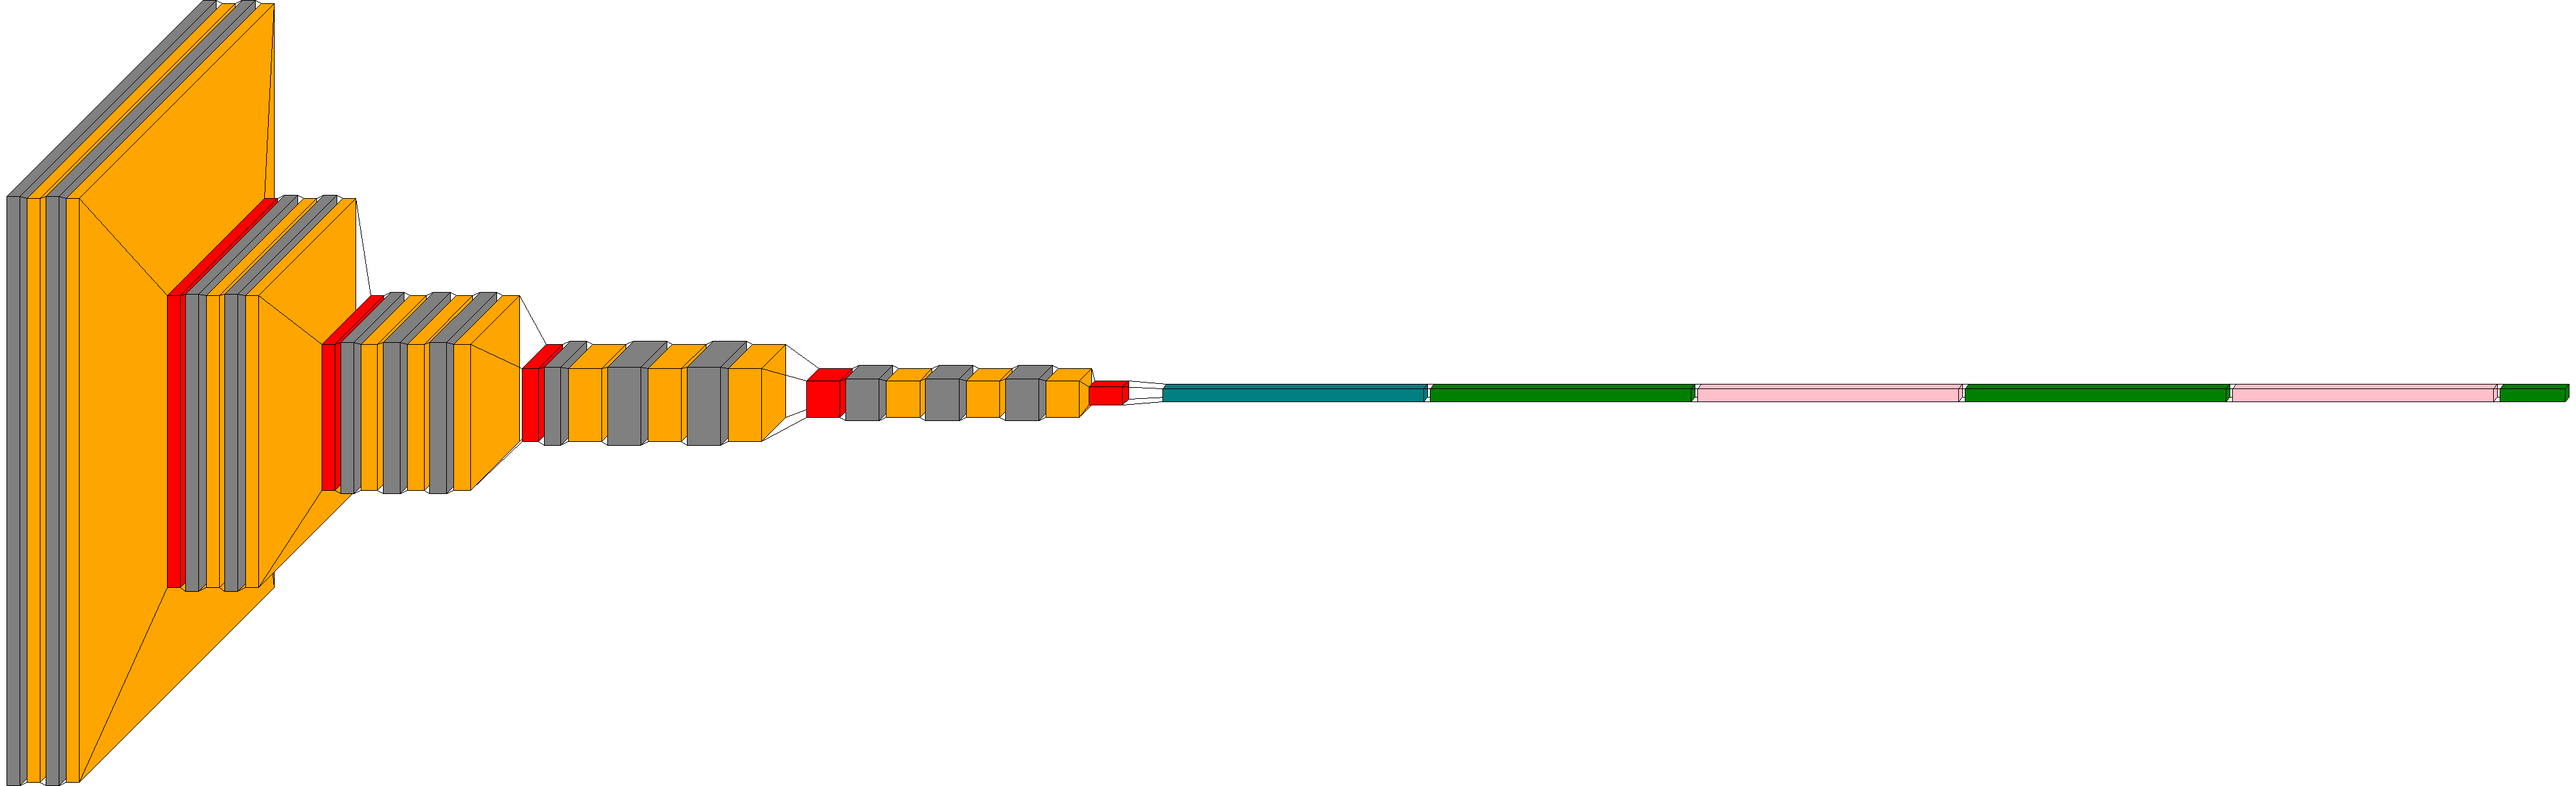
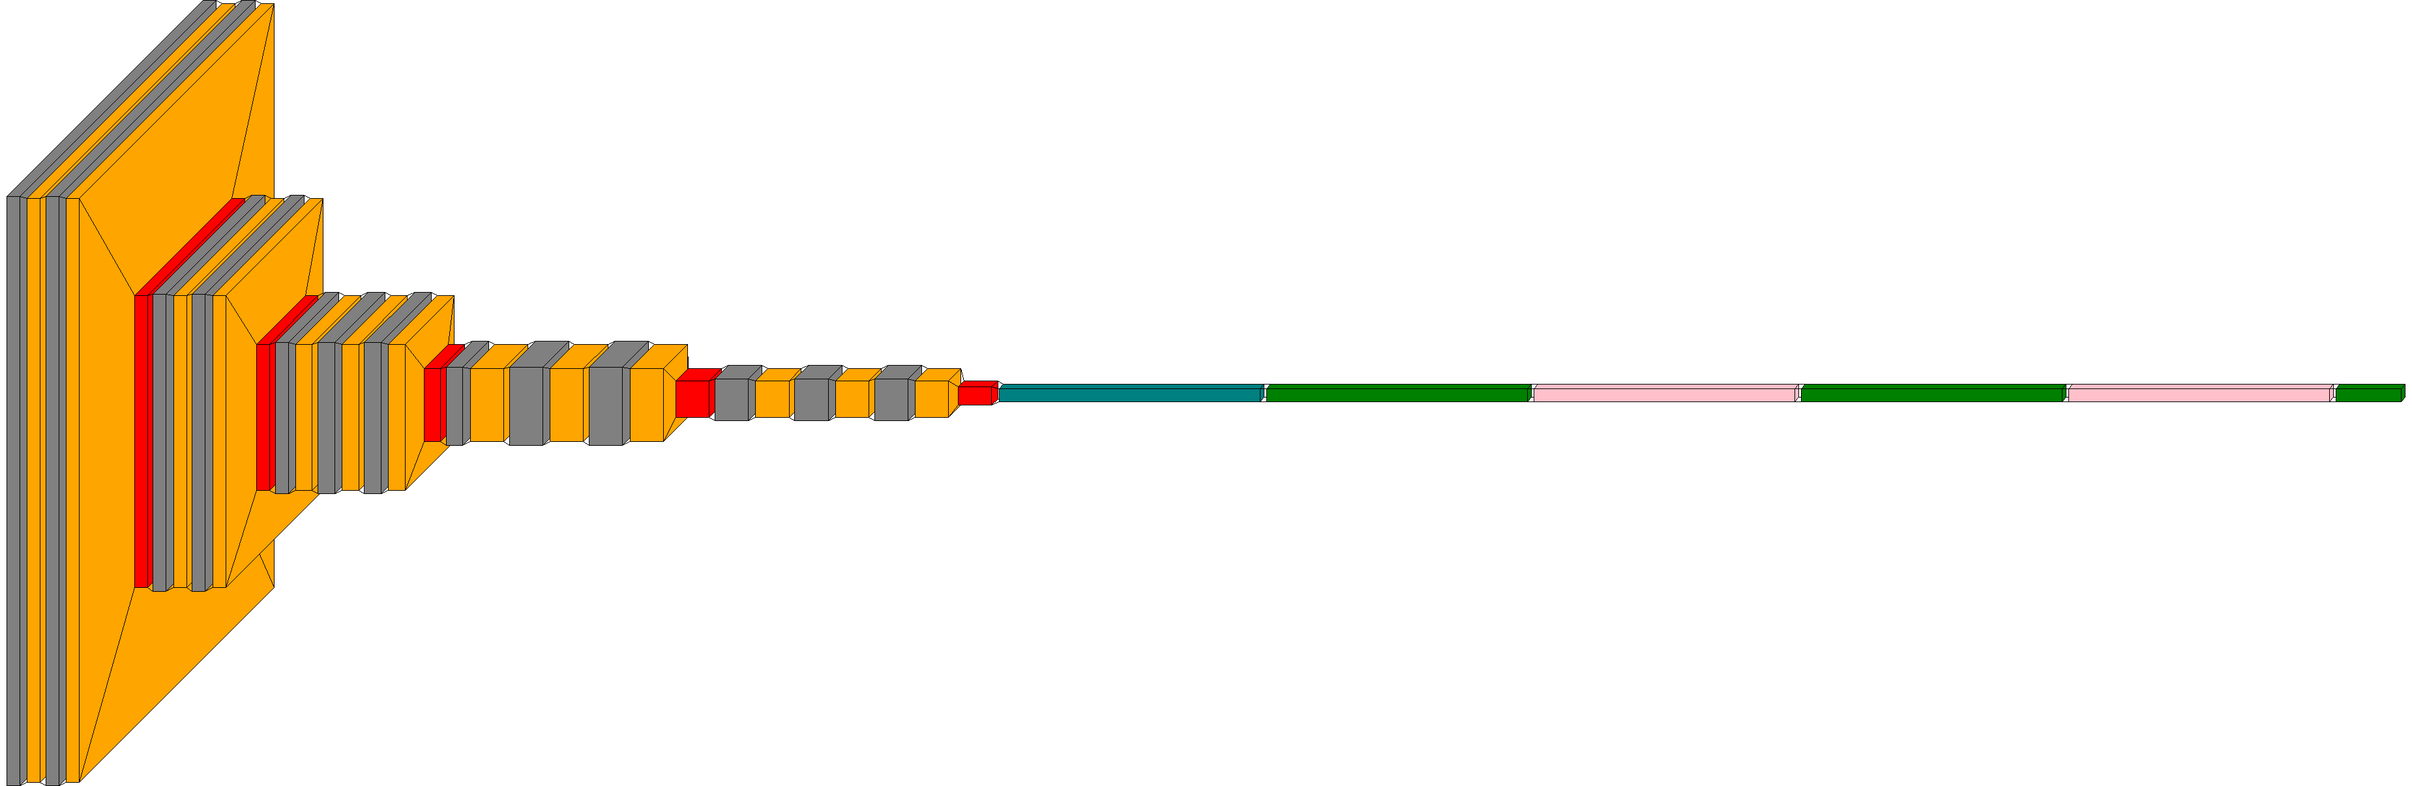
Updating examples

diff --git a/examples/example.py b/examples/example.py
@@ -14,14 +14,14 @@ model.add(ZeroPadding2D((1, 1)))
 model.add(Conv2D(64, activation='relu', kernel_size=(3, 3)))
 model.add(ZeroPadding2D((1, 1)))
 model.add(Conv2D(64, activation='relu', kernel_size=(3, 3)))
-model.add(visualkeras.FakeLayer())
+model.add(visualkeras.SpacingDummyLayer())
 
 model.add(MaxPooling2D((2, 2), strides=(2, 2)))
 model.add(ZeroPadding2D((1, 1)))
 model.add(Conv2D(128, activation='relu', kernel_size=(3, 3)))
 model.add(ZeroPadding2D((1, 1)))
 model.add(Conv2D(128, activation='relu', kernel_size=(3, 3)))
-model.add(visualkeras.FakeLayer())
+model.add(visualkeras.SpacingDummyLayer())
 
 model.add(MaxPooling2D((2, 2), strides=(2, 2)))
 model.add(ZeroPadding2D((1, 1)))
@@ -30,7 +30,7 @@ model.add(ZeroPadding2D((1, 1)))
 model.add(Conv2D(256, activation='relu', kernel_size=(3, 3)))
 model.add(ZeroPadding2D((1, 1)))
 model.add(Conv2D(256, activation='relu', kernel_size=(3, 3)))
-model.add(visualkeras.FakeLayer())
+model.add(visualkeras.SpacingDummyLayer())
 
 model.add(MaxPooling2D((2, 2), strides=(2, 2)))
 model.add(ZeroPadding2D((1, 1)))
@@ -39,7 +39,7 @@ model.add(ZeroPadding2D((1, 1)))
 model.add(Conv2D(512, activation='relu', kernel_size=(3, 3)))
 model.add(ZeroPadding2D((1, 1)))
 model.add(Conv2D(512, activation='relu', kernel_size=(3, 3)))
-model.add(visualkeras.FakeLayer())
+model.add(visualkeras.SpacingDummyLayer())
 
 model.add(MaxPooling2D((2, 2), strides=(2, 2)))
 model.add(ZeroPadding2D((1, 1)))
@@ -49,7 +49,7 @@ model.add(Conv2D(512, activation='relu', kernel_size=(3, 3)))
 model.add(ZeroPadding2D((1, 1)))
 model.add(Conv2D(512, activation='relu', kernel_size=(3, 3)))
 model.add(MaxPooling2D())
-model.add(visualkeras.FakeLayer())
+model.add(visualkeras.SpacingDummyLayer())
 
 model.add(Flatten())
 
@@ -62,39 +62,41 @@ model.add(Dense(1000, activation='softmax'))
 # Now visualize the model!
 
 color_map = defaultdict(dict)
+color_map[Conv2D]['fill'] = 'orange'
 color_map[ZeroPadding2D]['fill'] = 'gray'
 color_map[Dropout]['fill'] = 'pink'
 color_map[MaxPooling2D]['fill'] = 'red'
 color_map[Dense]['fill'] = 'green'
 color_map[Flatten]['fill'] = 'teal'
 
-visualkeras.cnn_arch(model, out_file='../figures/vgg16.png', type_ignore=[visualkeras.FakeLayer])
-visualkeras.cnn_arch(model, out_file='../figures/vgg16_spacing_layers.png')
-visualkeras.cnn_arch(model, out_file='../figures/vgg16_type_ignore.png',
-                     type_ignore=[ZeroPadding2D, Dropout, Flatten])
-visualkeras.cnn_arch(model, out_file='../figures/vgg16_color_map.png',
-                     color_map=color_map)
-visualkeras.cnn_arch(model, out_file='../figures/vgg16_flat.png',
-                     draw_volume=False)
+visualkeras.cnn_arch(model, to_file='../figures/vgg16.png', type_ignore=[visualkeras.SpacingDummyLayer])
+visualkeras.cnn_arch(model, to_file='../figures/vgg16_spacing_layers.png', spacing=50)
+visualkeras.cnn_arch(model, to_file='../figures/vgg16_type_ignore.png',
+                     type_ignore=[ZeroPadding2D, Dropout, Flatten, visualkeras.SpacingDummyLayer])
+visualkeras.cnn_arch(model, to_file='../figures/vgg16_color_map.png',
+                     color_map=color_map, type_ignore=[visualkeras.SpacingDummyLayer])
+visualkeras.cnn_arch(model, to_file='../figures/vgg16_flat.png',
+                     draw_volume=False, type_ignore=[visualkeras.SpacingDummyLayer])
+visualkeras.cnn_arch(model, to_file='../figures/vgg16_scaling.png',
+                     scale_xy=1, scale_z=1, max_z=1000, type_ignore=[visualkeras.SpacingDummyLayer])
 
-
-encoder_input = keras.Input(shape=(28, 28, 1), name="img")
-x = layers.Conv2D(16, 3, activation="relu")(encoder_input)
-x = layers.Conv2D(32, 3, activation="relu")(x)
+encoder_input = keras.Input(shape=(28, 28, 1), name='img')
+x = layers.Conv2D(16, 3, activation='relu')(encoder_input)
+x = layers.Conv2D(32, 3, activation='relu')(x)
 x = layers.MaxPooling2D(3)(x)
-x = layers.Conv2D(32, 3, activation="relu")(x)
-x = layers.Conv2D(16, 3, activation="relu")(x)
+x = layers.Conv2D(32, 3, activation='relu')(x)
+x = layers.Conv2D(16, 3, activation='relu')(x)
 encoder_output = layers.GlobalMaxPooling2D()(x)
-encoder = keras.Model(encoder_input, encoder_output, name="encoder")
+encoder = keras.Model(encoder_input, encoder_output, name='encoder')
 
-visualkeras.cnn_arch(encoder, out_file='../figures/encoder.png')
+visualkeras.cnn_arch(encoder, to_file='../figures/encoder.png')
 
 x = layers.Reshape((4, 4, 1))(encoder_output)
-x = layers.Conv2DTranspose(16, 3, activation="relu")(x)
-x = layers.Conv2DTranspose(32, 3, activation="relu")(x)
+x = layers.Conv2DTranspose(16, 3, activation='relu')(x)
+x = layers.Conv2DTranspose(32, 3, activation='relu')(x)
 x = layers.UpSampling2D(3)(x)
-x = layers.Conv2DTranspose(16, 3, activation="relu")(x)
-decoder_output = layers.Conv2DTranspose(1, 3, activation="relu")(x)
-autoencoder = keras.Model(encoder_input, decoder_output, name="autoencoder")
+x = layers.Conv2DTranspose(16, 3, activation='relu')(x)
+decoder_output = layers.Conv2DTranspose(1, 3, activation='relu')(x)
+autoencoder = keras.Model(encoder_input, decoder_output, name='autoencoder')
 
-visualkeras.cnn_arch(autoencoder, out_file='../figures/autoencoder.png')
+visualkeras.cnn_arch(autoencoder, to_file='../figures/autoencoder.png')

diff --git a/README.md b/README.md
@@ -1,5 +1,99 @@
-# Example Package
+# visualkeras
 
-This is a simple example package. You can use
-[Github-flavored Markdown](https://guides.github.com/features/mastering-markdown/)
-to write your content.
+
+## Introduction
+Visualkeras is a Python package to help visualize Keras neural network architectures. It allows easy styling to fit most 
+needs. As of now it only supports CNN style architecture generation.
+
+## Installation
+To install the current release:
+```bash
+pip install visualkeras
+```
+To update visual to the latest version, add --upgrade flag to the above commands.
+
+## Usage
+
+Generating neural network architectures is easy:
+```python
+import visualkeras
+
+model = ...
+
+visualkeras.cnn_arch(model).show() # display using your system viewer
+visualkeras.cnn_arch(model, to_file='output.png') # write to disk
+visualkeras.cnn_arch(model, to_file='output.png').show() # write and show
+```
+
+To help unerstand some of the most important parameters we are going to use a VGG16 CNN architecture (see [example.py](examples/example.py)).
+
+###### Default
+```python
+visualkeras.cnn_arch(model)
+```
+![Default view of a VGG16 CNN](figures/vgg16.png)
+
+###### Flat Style
+```python
+visualkeras.cnn_arch(model, draw_volume=False)
+```
+![Flat view of a VGG16 CNN](figures/vgg16_flat.png)
+
+###### Spacing and logic grouping
+The global distance between two layers can be controlled with `spacing`. To generate logical groups a special dummy 
+keras layer `visualkeras.SpacingDummyLayer()` can be added.
+```python
+
+model = ...
+...
+model.add(visualkeras.SpacingDummyLayer(spacing=100))
+...
+
+visualkeras.cnn_arch(model, spacing=50)
+```
+![Spaced and grouped view of a VGG16 CNN](figures/vgg16_spacing_layers.png)
+
+
+###### Custom color map
+It is possible to provide a custom color map for fill and outline per layer type.
+```python
+from tensorflow.python.keras.layers import Dense, Conv2D, Flatten, Dropout, MaxPooling2D, ZeroPadding2D
+from collections import defaultdict
+
+color_map = defaultdict(dict)
+color_map[Conv2D]['fill'] = 'orange'
+color_map[ZeroPadding2D]['fill'] = 'gray'
+color_map[Dropout]['fill'] = 'pink'
+color_map[MaxPooling2D]['fill'] = 'red'
+color_map[Dense]['fill'] = 'green'
+color_map[Flatten]['fill'] = 'teal'
+
+visualkeras.cnn_arch(model, color_map=color_map)
+```
+![Custom colored view of a VGG16 CNN](figures/vgg16_color_map.png)
+
+###### Hiding layers
+Some models may consist of too many layers to visualize or to comprehend the model. In this case it can be helpful to 
+hide (ignore) certain layers of the keras model without modifying it. Visualkeras allows ignoring layers by their type
+ (`type_ignore`) or index in the keras layer sequence (`index_ignore`).
+```python
+visualkeras.cnn_arch(model, type_ignore=[ZeroPadding2D, Dropout, Flatten])
+```
+![Simplified view of a VGG16 CNN](figures/vgg16_type_ignore.png)
+
+###### Scaling dimensions
+Visualkeras computes the size of each layer by the output shape. Values are transformed into pixels. Then, scaling is 
+applied. By default visualkeras will enlarge the x and y dimension and reduce the size of the z dimensions as this has 
+deemed visually most appealing. However, it is possible to control scaling using `scale_xy` and `scale_z`. Additionally, 
+to prevent to small or large options minimum and maximum values can be set (`min_xy`, `min_z`, `max_xy`, `max_z`).  
+```python
+visualkeras.cnn_arch(model, scale_xy=1, scale_z=1, max_z=1000)
+```
+![True scale view of a VGG16 CNN](figures/vgg16_scaling.png)
+_Note: Scaled models may hide the true complexity of a layer, but are visually more appealing._
+
+## Planned features
+* Switch to pycairo
+* Translucent layers
+* Layer and Group labels
+* Special view for Fully Connected Neural Networks
